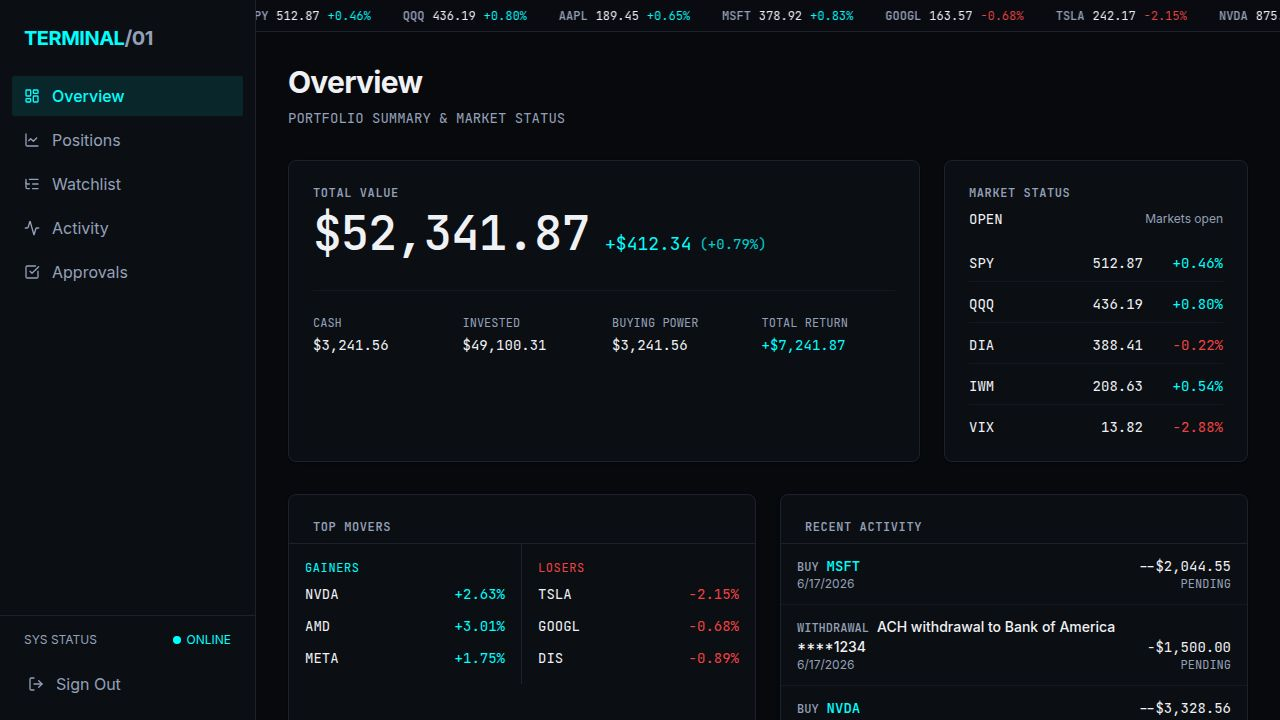
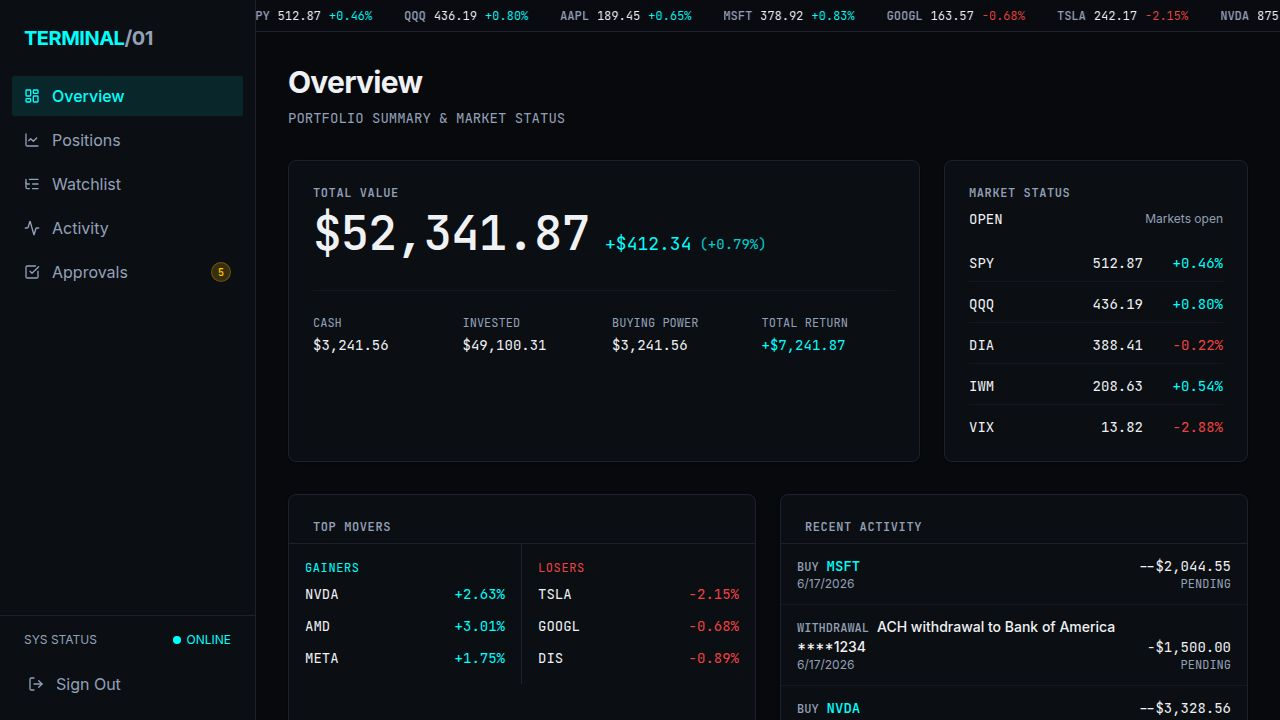
Add a way to programmatically create mock approval requests
Add POST /api/approvals endpoint to create in-memory approval requests, update OpenAPI spec, and generate corresponding client hooks.

Replit-Commit-Author: Agent
Replit-Commit-Session-Id: edb73079-54ae-46ed-ba56-56978de468de
Replit-Commit-Checkpoint-Type: full_checkpoint
Replit-Commit-Event-Id: 768d862c-1c0f-411d-a204-df0bebf470b7
Replit-Commit-Screenshot-Url: https://storage.googleapis.com/screenshot-production-us-central1/f326fd5a-81e1-4d1d-888d-54c0be926f76/edb73079-54ae-46ed-ba56-56978de468de/UntSzQA
Replit-Helium-Checkpoint-Created: true

Changed region(s): [[0.4375, 0.0, 1.0, 0.0306], [0.2188, 0.0, 0.4062, 0.0306], [0.1562, 0.3667, 0.1875, 0.3972]]

diff --git a/artifacts/api-server/src/routes/approvalsPending.ts b/artifacts/api-server/src/routes/approvalsPending.ts
@@ -19,6 +19,19 @@ interface Approval {
   requested_by: string;
   resolved_at?: string;
   resolved_note?: string;
+  // Extended fields for programmatic submissions
+  action?: string;
+  asset_type?: string;
+  strike?: number;
+  expiration?: string;
+  note?: string;
+  source?: string;
+}
+
+let idCounter = 1000;
+function nextId(): string {
+  idCounter += 1;
+  return `appr-${idCounter}`;
 }
 
 // In-memory store — shared across GET and POST handlers in this process
@@ -66,6 +79,61 @@ const approvals: Approval[] = [
     requested_by: "manual",
   },
 ];
+
+// POST /api/approvals — create a new pending approval (mock only, no real trade)
+router.post("/approvals", (req, res) => {
+  const body = (req.body ?? {}) as {
+    symbol?: string;
+    action?: string;
+    assetType?: string;
+    quantity?: number;
+    strike?: number;
+    expiration?: string;
+    estimatedCost?: number;
+    note?: string;
+    source?: string;
+  };
+
+  if (!body.symbol || !body.action || body.quantity == null || body.estimatedCost == null) {
+    res.status(400).json({
+      success: false,
+      error: "Required fields: symbol, action, quantity, estimatedCost",
+    });
+    return;
+  }
+
+  const now = new Date();
+  const expires = new Date(now.getTime() + 8 * 60 * 60 * 1000); // +8 hours
+
+  const approval: Approval = {
+    id: nextId(),
+    type: body.action.toLowerCase(),
+    symbol: body.symbol.toUpperCase(),
+    name: body.symbol.toUpperCase(),
+    quantity: body.quantity,
+    estimated_price: body.quantity > 0 ? body.estimatedCost / body.quantity : 0,
+    estimated_total: body.estimatedCost,
+    submitted_at: now.toISOString(),
+    expires_at: expires.toISOString(),
+    status: "pending_approval",
+    reason: body.note ?? "Programmatic submission",
+    requested_by: body.source ?? "api",
+    action: body.action,
+    asset_type: body.assetType ?? "stock",
+    strike: body.strike,
+    expiration: body.expiration,
+    note: body.note,
+    source: body.source,
+  };
+
+  approvals.push(approval);
+
+  res.status(201).json({
+    success: true,
+    message: "Approval request created. Mock only — no real trade placed.",
+    data: approval,
+  });
+});
 
 // GET /api/approvals/history — returns all approvals regardless of status
 router.get("/approvals/history", (_req, res) => {